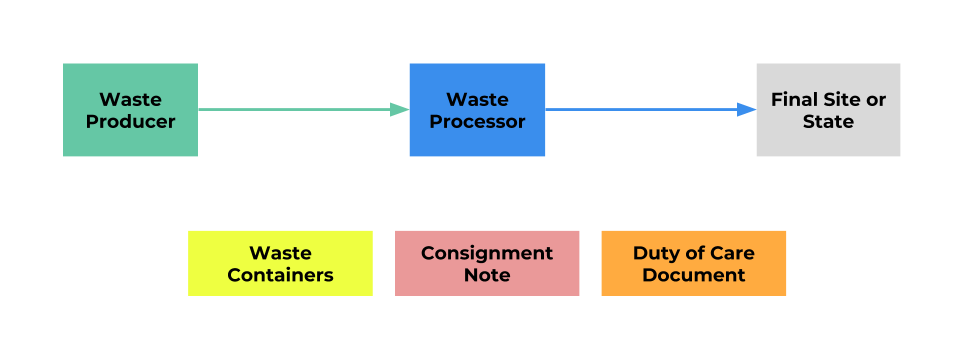
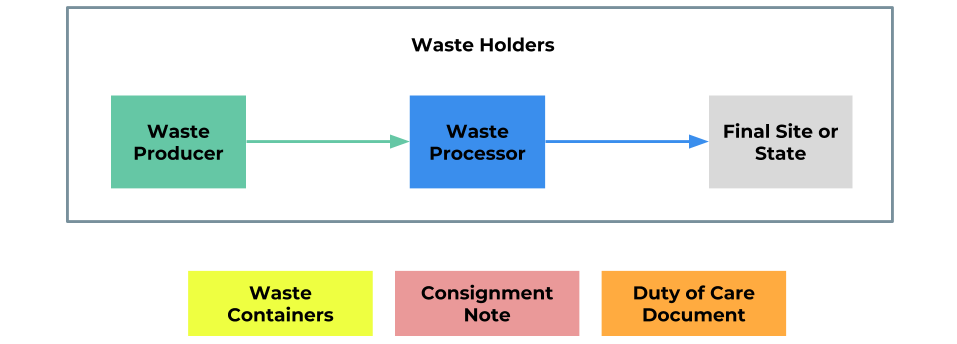
Added waste manageent scenarios

diff --git a/README.md b/README.md
@@ -43,7 +43,7 @@ Efficiently tracking waste is the way to ensure everyone knows where the waste t
 
 **#SmartWaste means smart use of data**
 
-*Stitching together the waste data patchwork*
+*Stitching together the business waste data patchwork*
 
 Smart waste means smart use of data to stitch together the patchwork of today’s waste data including returns from permitted sites, voluntary initiatives and one-off surveys. We know from HM Government’s [Resources and Waste Strategy for England](https://www.gov.uk/government/publications/resources-and-waste-strategy-for-england) that waste data is time-consuming, complex to use and doesn’t support effective tacking of waste crime. We know today’s technologies can help make better use of waste data to become a zero waste society.
 
@@ -103,10 +103,13 @@ Three key identifiers make tracking waste simpler and easier:
 
 *Knowing “Where is my business waste now?”*
 
-
 ## How Waste is Managed <a name="how_waste_is_managed"></a>
 
-Waste management is the process of storing waste, transforming waste into a non-waste state (for example: recycling) or disposing of waste (for example: sending waste to landfill). 
+Managing waste means storing waste, transforming it into a non-waste state (for example: recycling) or disposing of waste (for example: sending waste to landfill). 
+
+![alt text][mw_1]
+
+[mw_1]: https://github.com/OpenDataManchester/KnoWaste/blob/master/images/KnoWaste%20-%20Waste%20Management%20Scenarios.png "Waste Management Scenarios"
 
 When waste is managed, it can be:
 
